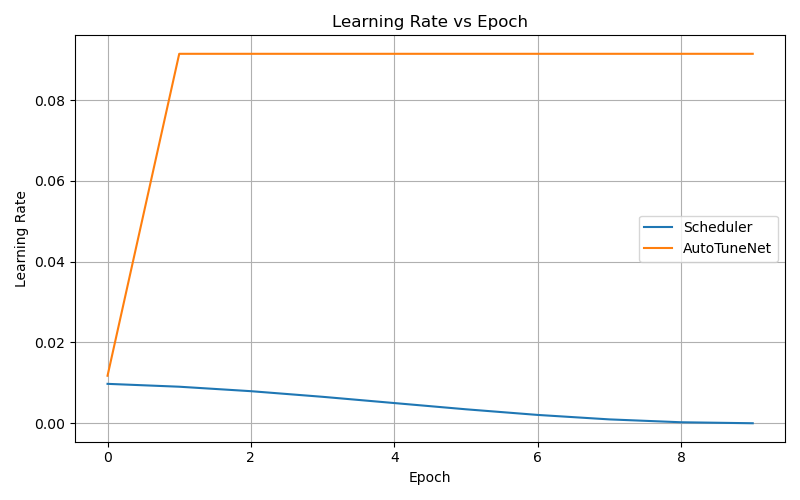
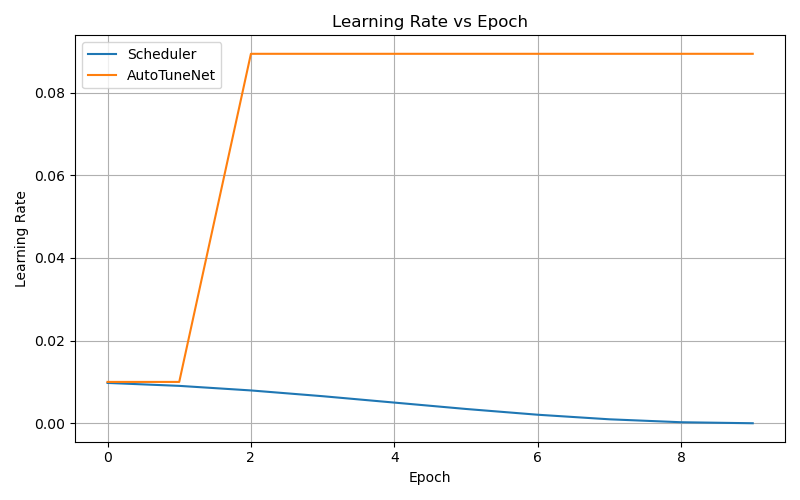
chore(adapter): added max_delta as a safe exploration policy

diff --git a/src/autotunenet/adapters/pytorch/adapter.py b/src/autotunenet/adapters/pytorch/adapter.py
@@ -6,34 +6,51 @@ from autotunenet.safeguards.rollback import Rollback
 from autotunenet.logging.tracker import Tracker
 from autotunenet.safeguards.stability import StabilityMonitor
 from autotunenet.config.loader import load_config
-from autotunenet.metrics import MetricSmoother
 from autotunenet.parameters import ParameterSpace
 
 class PyTorchHyperParameterAdapter:
     def __init__(self, 
                  torch_optimizer: torch.optim.Optimizer,
                  autotune_optimizer: BayesianOptimizer,
-                 tune_n_steps: int = 1):
+                 tune_n_steps: int = 1,
+                 warmup_epochs: int = 0,
+                 warmup_metric_threshold: float | None = None,
+                 max_delta: float | None = None):
         """
         Args:
             torch_optimizer: PyTorch Optimizer instance(eg., Adam, SGD)
             autotune_optimizer: BayesianOptimizer from AutoTuneNet
             tune_n_steps: How often to tune hyperparameters
+            warmup_epochs: Number of steps/epochs before tuning starts
+            warmup_metric_threshold: Minimum metric required before tuning start
+            max_delta: Maximum relative change allowed per tuning step (e.g. 0.5 = +-50%, postive or negative 50% change)
         """
         if not isinstance(tune_n_steps, int) or tune_n_steps <= 0:
             raise ValueError(
                 "tune_n_steps must be a positive integer "
                 "(e.g. 1 = every step/epoch, 5 = every 5 steps/epochs)"
             )
+            
+        if warmup_epochs < 0:
+            raise ValueError("warmup_epochs must be non-negative or >= 0")
+        
+        if max_delta is not None and (max_delta <=0 or max_delta >= 1):
+            raise ValueError("max_delta must be in the range (0,1)")
+        
         self.torch_optimizer = torch_optimizer
         self.autotune_optimizer = autotune_optimizer
         self.tune_n_steps = tune_n_steps
+        self.max_delta = max_delta
         
         self.rollback = Rollback()
         self.tracker = Tracker()
         
         self._step = 0
         self._last_good_params: Dict[str, float] = self._read_current_params()
+        
+        self.warmup_epochs = warmup_epochs
+        self.warmup_metric_threshold = warmup_metric_threshold
+        self._tuning_enabled = warmup_epochs == 0 and warmup_metric_threshold is None
         
     def on_step_end(self, metric: float):
         self.step_tuning_metric(metric)
@@ -46,9 +63,29 @@ class PyTorchHyperParameterAdapter:
         
     def step(self, metric: float):
         self.step_tuning_metric(metric)
+    
+    def _warmup_satisfied(self, metric: float) -> bool:
+        # Epoch warmup: Epoch warmup applies ONLY if warmup_epochs > 0
+        if self.warmup_epochs > 0:
+            if self._step <= self.warmup_epochs:
+                return False
+
+        # Metric warmup: Metric warmup applies ONLY if threshold is set
+        if self.warmup_metric_threshold is not None:
+            return metric >= -self.warmup_metric_threshold
+
+        return True
+
         
     def step_tuning_metric(self, metric: float):
         self._step += 1
+
+        if not self._tuning_enabled:
+            if self._warmup_satisfied(metric):
+                self._tuning_enabled = True
+            else:
+                return
+        
         
         if self._step % self.tune_n_steps != 0:
             return
@@ -57,23 +94,16 @@ class PyTorchHyperParameterAdapter:
         
         old_params = self._read_current_params()
         self._apply_params(params)
-        
-        # try:
-        #     self.autotune_optimizer.observe(params, metric)
-        #     self._last_good_params = self._read_current_params()
-        # except Exception:
-        #     self._apply_params(old_params)
-        #     self.tracker.log_rollback_start()
 
         accepted = self.autotune_optimizer.observe(params, metric)
         best = self.autotune_optimizer.best_score()
 
         if best is not None and metric < best:
             self._apply_params(old_params)
+            self.tracker.log_rollback_start()
         else:
             self._last_good_params = params.copy()
-
-        
+ 
     # read current hyperparameters from the PyTorch optimizer
     def _read_current_params(self) -> Dict[str, float]:
         params = {}
@@ -86,34 +116,47 @@ class PyTorchHyperParameterAdapter:
     # apply new hyperparameters to the PyTorch optimizer
     def _apply_params(self, params: Dict[str, float]):
         for group in self.torch_optimizer.param_groups:
-            for key, value in params.items():
-                if key in group:
-                    group[key] = value
+            for key, proposed_value in params.items():
+                if key not in group:
+                    continue
+                
+                current_value = group[key]
+                
+                if self.max_delta is not None:
+                    lower = current_value * (1 - self.max_delta)
+                    upper = current_value * (1 + self.max_delta)
+                    proposed_value = max(lower, min(upper, proposed_value))
+                group[key] = proposed_value
+    
                     
-                    
-@classmethod
-def from_config(cls, torch_optmizer, config_path: str, seed: int | None = None):
-    config = load_config(config_path)
-    
-    param_space = ParameterSpace(config.parameter_space)
-    
-    autotune = BayesianOptimizer(
-        param_space=param_space,
-        seed=seed,
-        smmothing_window=config.metrics.get("smoothing_window", 5)
-    )
-    
-    autotune.guard = StabilityMonitor(
-        max_regression=config.stability.get("max_regression", 0.2),
-        patience=config.stability.get("patience", 2),
-        cooldown=config.stability.get("cooldown", 3)
-    )
-    
-    return cls(
-        torch_optimizer=torch_optmizer,
-        autotune_optimizer=autotune,
-        tune_n_steps=config.adapter.get("tune_n_steps", 1)
-    )
+    @classmethod
+    def from_config(cls, torch_optmizer, config_path: str, seed: int | None = None):
+        config = load_config(config_path)
+        
+        param_space = ParameterSpace(config.parameter_space)
+        
+        autotune = BayesianOptimizer(
+            param_space=param_space,
+            seed=seed,
+            smmothing_window=config.metrics.get("smoothing_window", 5)
+        )
+        
+        autotune.guard = StabilityMonitor(
+            max_regression=config.stability.get("max_regression", 0.2),
+            patience=config.stability.get("patience", 2),
+            cooldown=config.stability.get("cooldown", 3)
+        )
+        
+        return cls(
+            torch_optimizer=torch_optmizer,
+            autotune_optimizer=autotune,
+            tune_n_steps=config.adapter.get("tune_n_steps", 1),
+            warmup_epochs=config.adapter.get("warmup_epochs", 0),
+            warmup_metric_threshold=config.adapter.get(
+                "warmup_metric_threshold", None
+            ),
+            max_delta=config.adapter.get("max_delta", None)
+        )
     
 # usage example
 # adapter = PyTorchHyperParameterAdapter.from_config(

diff --git a/tests/adapters/pytorch/test_warmup.py b/tests/adapters/pytorch/test_warmup.py
@@ -1,0 +1,72 @@
+from unittest.mock import MagicMock
+from autotunenet.adapters.pytorch.adapter import PyTorchHyperParameterAdapter
+
+def test_epoch_warmup_blocks_early_tuning():
+    torch_optimizer = MagicMock()
+    torch_optimizer.param_groups = [{"lr": 0.01}]
+    
+    autotune_optimizer = MagicMock()
+    autotune_optimizer.suggest.return_value = {"lr": 0.02}
+    autotune_optimizer.best_score.return_value = None
+    autotune_optimizer.observe.return_value = True
+    
+    adapter = PyTorchHyperParameterAdapter(
+        torch_optimizer=torch_optimizer,
+        autotune_optimizer=autotune_optimizer,
+        tune_n_steps=1,
+        warmup_epochs=2
+    )
+    
+    # First two warmup epochs should not trigger tuning
+    adapter.on_epoch_end(metric=-1.0)
+    adapter.on_epoch_end(metric=-0.8)
+    
+    autotune_optimizer.suggest.assert_not_called()
+    
+    # Third epoch should trigger tuning or warmup complete
+    adapter.on_epoch_end(metric=-0.5)
+    
+    autotune_optimizer.suggest.assert_called_once()
+    
+def test_metric_threshold_blocks_tuning():
+    torch_optimizer = MagicMock()
+    torch_optimizer.param_groups = [{"lr": 0.01}]
+    
+    autotune_optimizer = MagicMock()
+    autotune_optimizer.suggest.return_value = {"lr": 0.02}
+    autotune_optimizer.best_score.return_value = None
+    autotune_optimizer.observe.return_value = True
+    
+    adapter = PyTorchHyperParameterAdapter(
+        torch_optimizer=torch_optimizer,
+        autotune_optimizer=autotune_optimizer,
+        warmup_metric_threshold=0.3
+    )
+    
+    adapter.on_epoch_end(metric=-1.0)
+    adapter.on_epoch_end(metric=-0.6)
+    
+    autotune_optimizer.suggest.assert_not_called()
+    
+    adapter.on_epoch_end(metric=-0.2)
+    autotune_optimizer.suggest.assert_called_once()
+
+
+def test_max_delta_clamps_lr():
+    torch_optimizer = MagicMock()
+    torch_optimizer.param_groups = [{"lr": 0.01}]
+    
+    autotune_optimizer = MagicMock()
+    autotune_optimizer.suggest.return_value = {"lr": 0.1}
+    autotune_optimizer.observe.return_value = True
+    autotune_optimizer.best_score.return_value = None 
+    
+    adapter = PyTorchHyperParameterAdapter(
+        torch_optimizer=torch_optimizer,
+        autotune_optimizer=autotune_optimizer,
+        max_delta=0.5
+    )
+    
+    adapter.on_epoch_end(metric=-0.1)
+    
+    assert torch_optimizer.param_groups[0]["lr"] == 0.015

diff --git a/benchmarks/stress_test/run.py b/benchmarks/stress_test/run.py
@@ -56,7 +56,8 @@ def run_autotunenet(model, train_loader, val_loader, device, epochs):
     adapter = PyTorchHyperParameterAdapter(
         torch_optimizer=optimizer,
         autotune_optimizer=autotune_optimizer,
-        tune_n_steps=1
+        tune_n_steps=1,
+        warmup_epochs=2
     )
     
     def on_epoch_end(epoch, val_loss, val_accuracy):

diff --git a/benchmarks/autotunenet/run.py b/benchmarks/autotunenet/run.py
@@ -47,7 +47,8 @@ def main():
     adapter = PyTorchHyperParameterAdapter(
         torch_optimizer=torch_optimizer,
         autotune_optimizer=autotune_optimizer,
-        tune_n_steps = 1
+        tune_n_steps = 1,
+        warmup_epochs=2
     )
     
     lr_history = []
